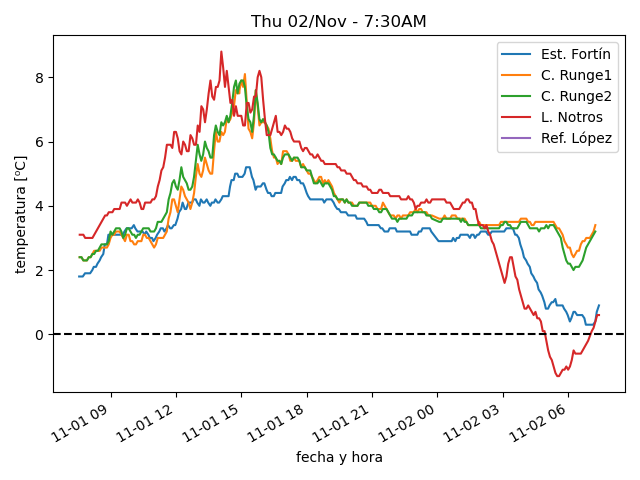
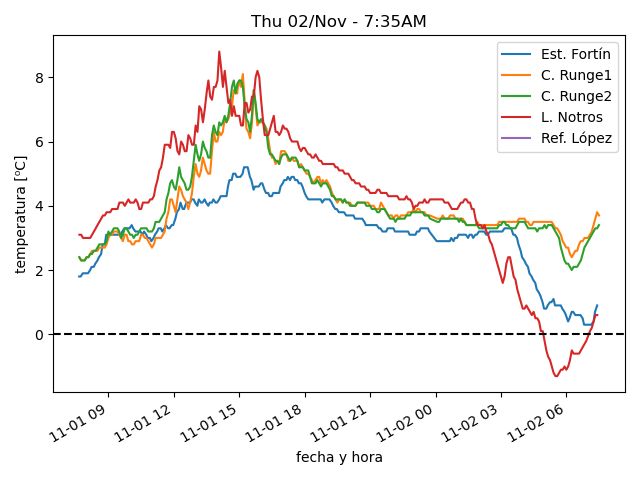
actualiza datos

diff --git a/estaciones/estacion3.html b/estaciones/estacion3.html
@@ -18,32 +18,32 @@
     </tr>
     <tr>
      <td class="stats_data">
-      7:14AM
+      7:29AM
      </td>
     </tr>
     <tr>
      <td class="stats_data">
-      3.4⁰C
+      3.7⁰C
      </td>
     </tr>
     <tr>
      <td class="stats_data">
-      2.2⁰C
+      2.4⁰C
      </td>
     </tr>
     <tr>
      <td class="stats_data">
-      92.0%
+      91.3%
      </td>
     </tr>
     <tr>
      <td class="stats_data">
-      1011.72hPa
+      1011.82hPa
      </td>
     </tr>
     <tr>
      <td class="stats_data">
-      0.0/0.0 km/hr W
+      1.0/1.7 km/hr W
      </td>
     </tr>
     <tr>
@@ -58,7 +58,7 @@
     </tr>
     <tr>
      <td class="stats_data">
-      18.6 W/m²
+      13.3 W/m²
      </td>
     </tr>
    </tbody>

diff --git a/estaciones/estacion4.html b/estaciones/estacion4.html
@@ -18,27 +18,27 @@
     </tr>
     <tr>
      <td class="stats_data">
-      7:14AM
+      7:29AM
      </td>
     </tr>
     <tr>
      <td class="stats_data">
-      3.2⁰C
+      3.4⁰C
      </td>
     </tr>
     <tr>
      <td class="stats_data">
-      1.8⁰C
+      2.1⁰C
      </td>
     </tr>
     <tr>
      <td class="stats_data">
-      90.1%
+      90.5%
      </td>
     </tr>
     <tr>
      <td class="stats_data">
-      1020.42hPa
+      1020.73hPa
      </td>
     </tr>
     <tr>
@@ -58,7 +58,7 @@
     </tr>
     <tr>
      <td class="stats_data">
-      16.1 W/m²
+      12.4 W/m²
      </td>
     </tr>
    </tbody>
